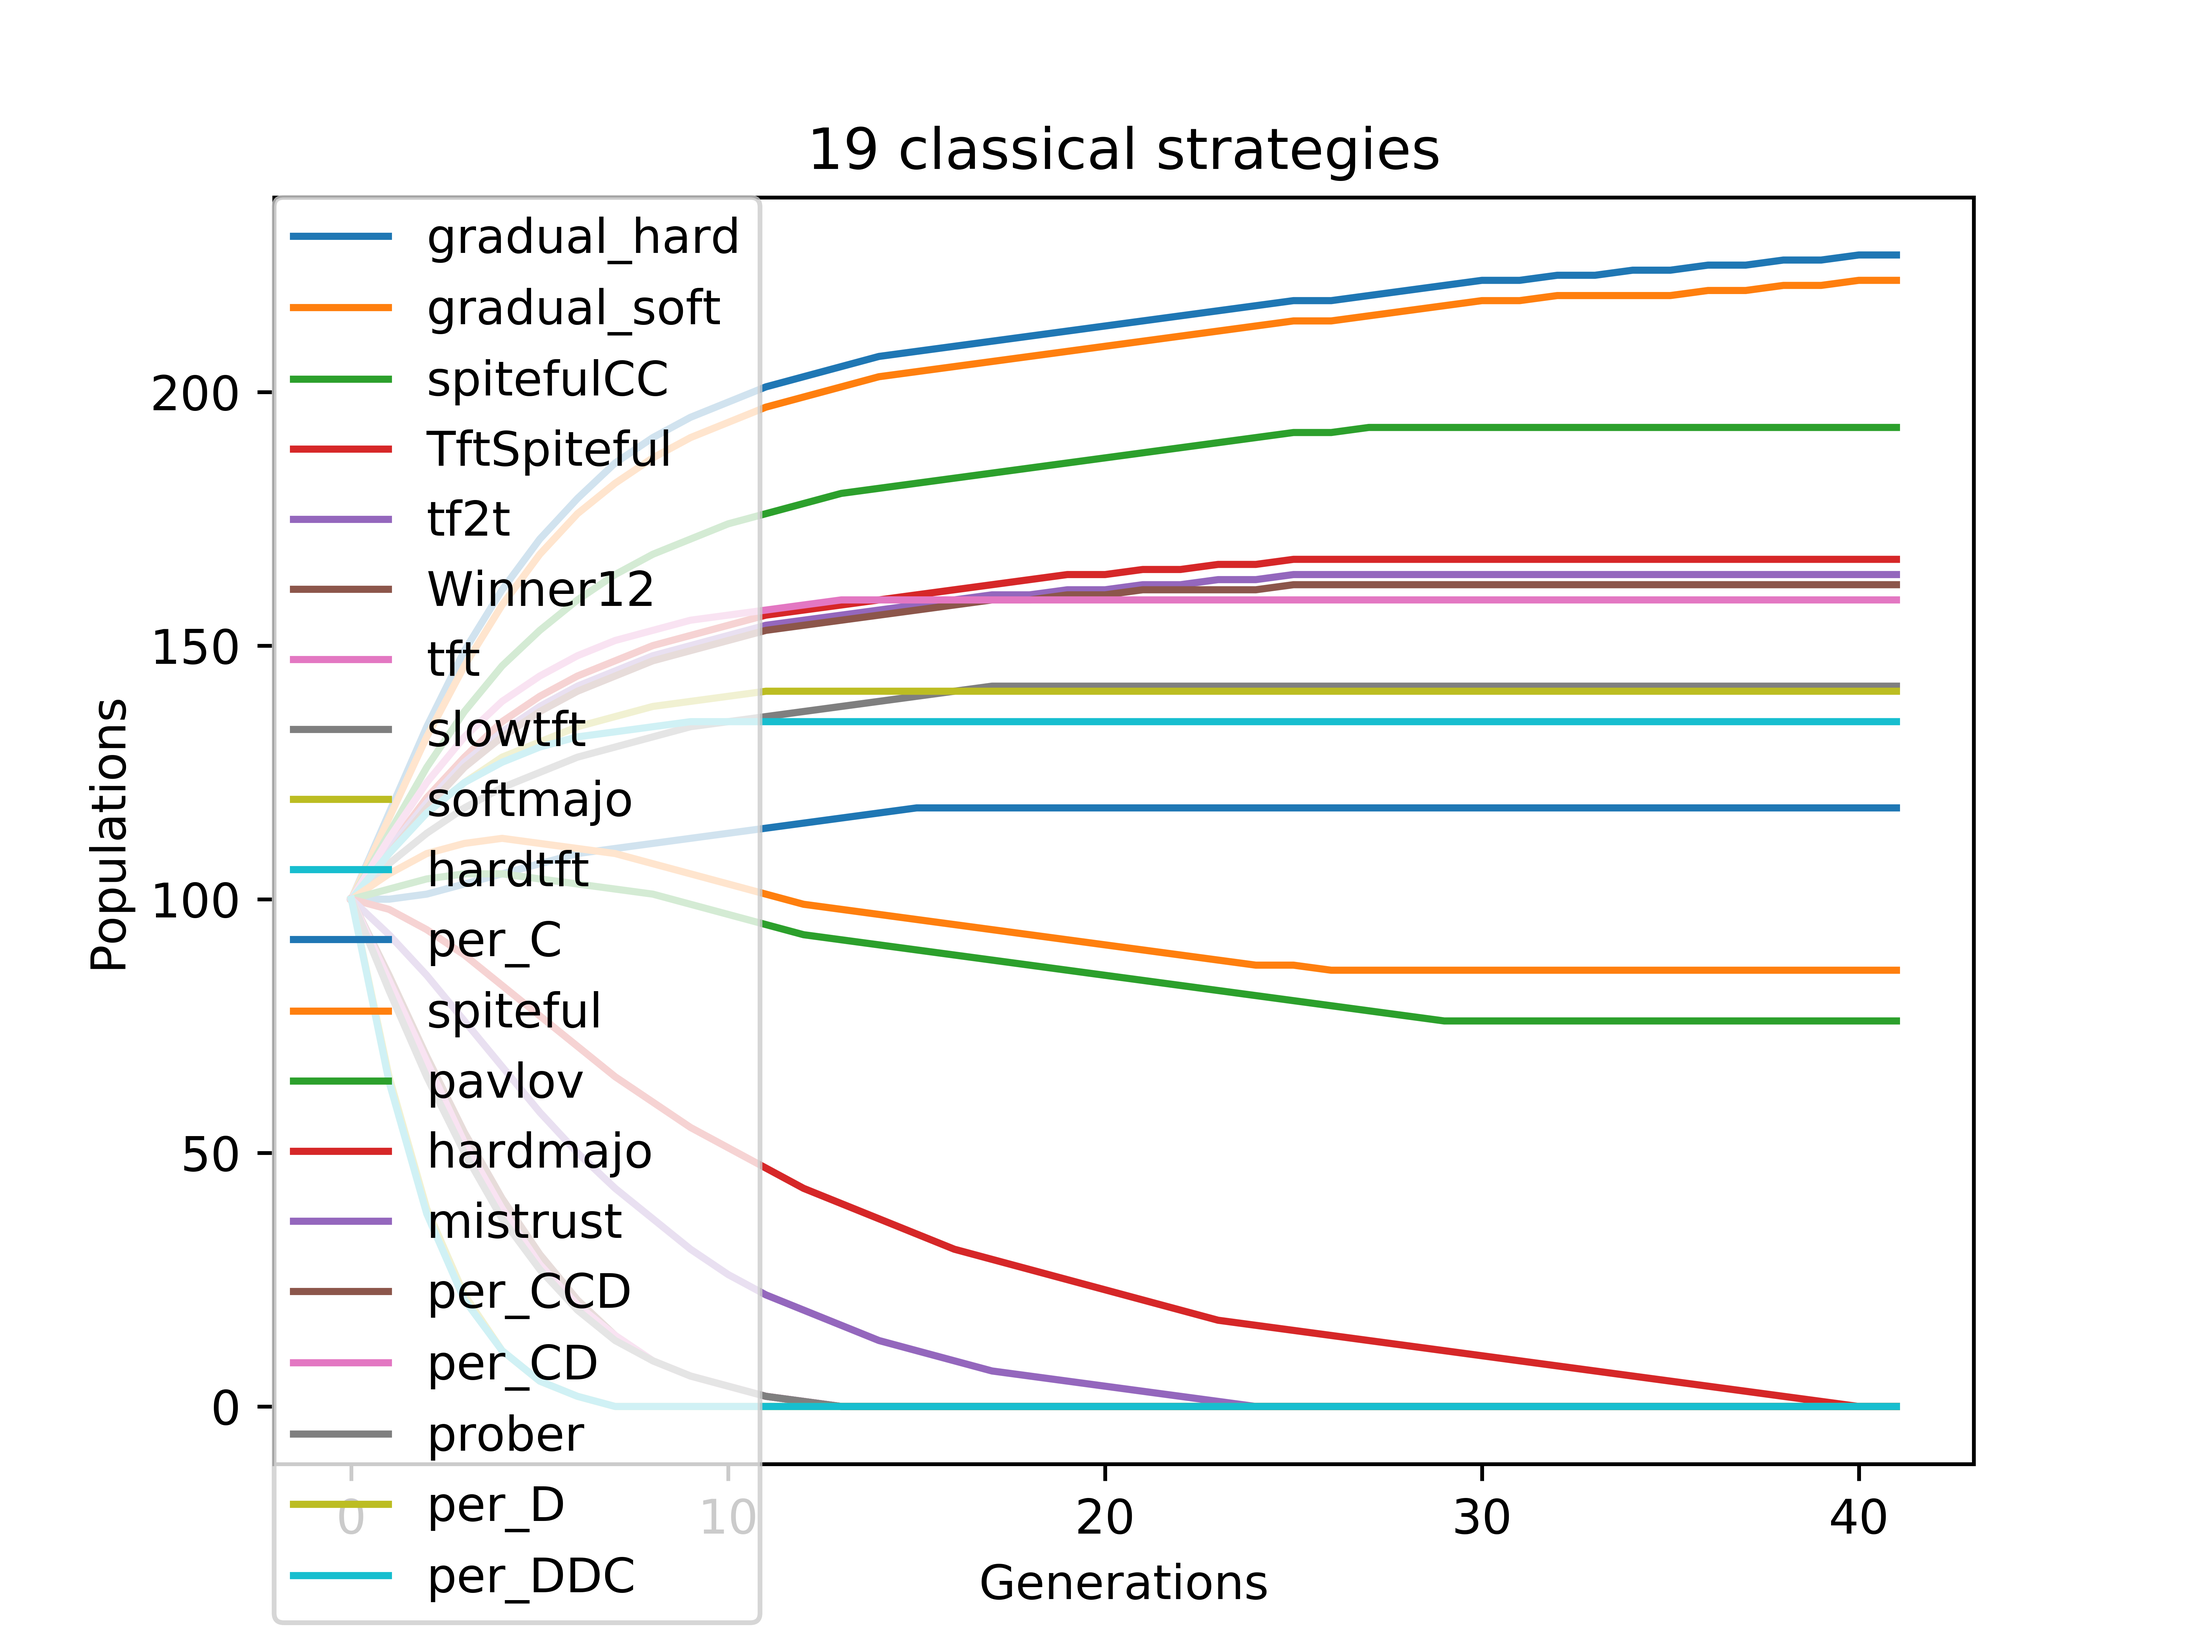
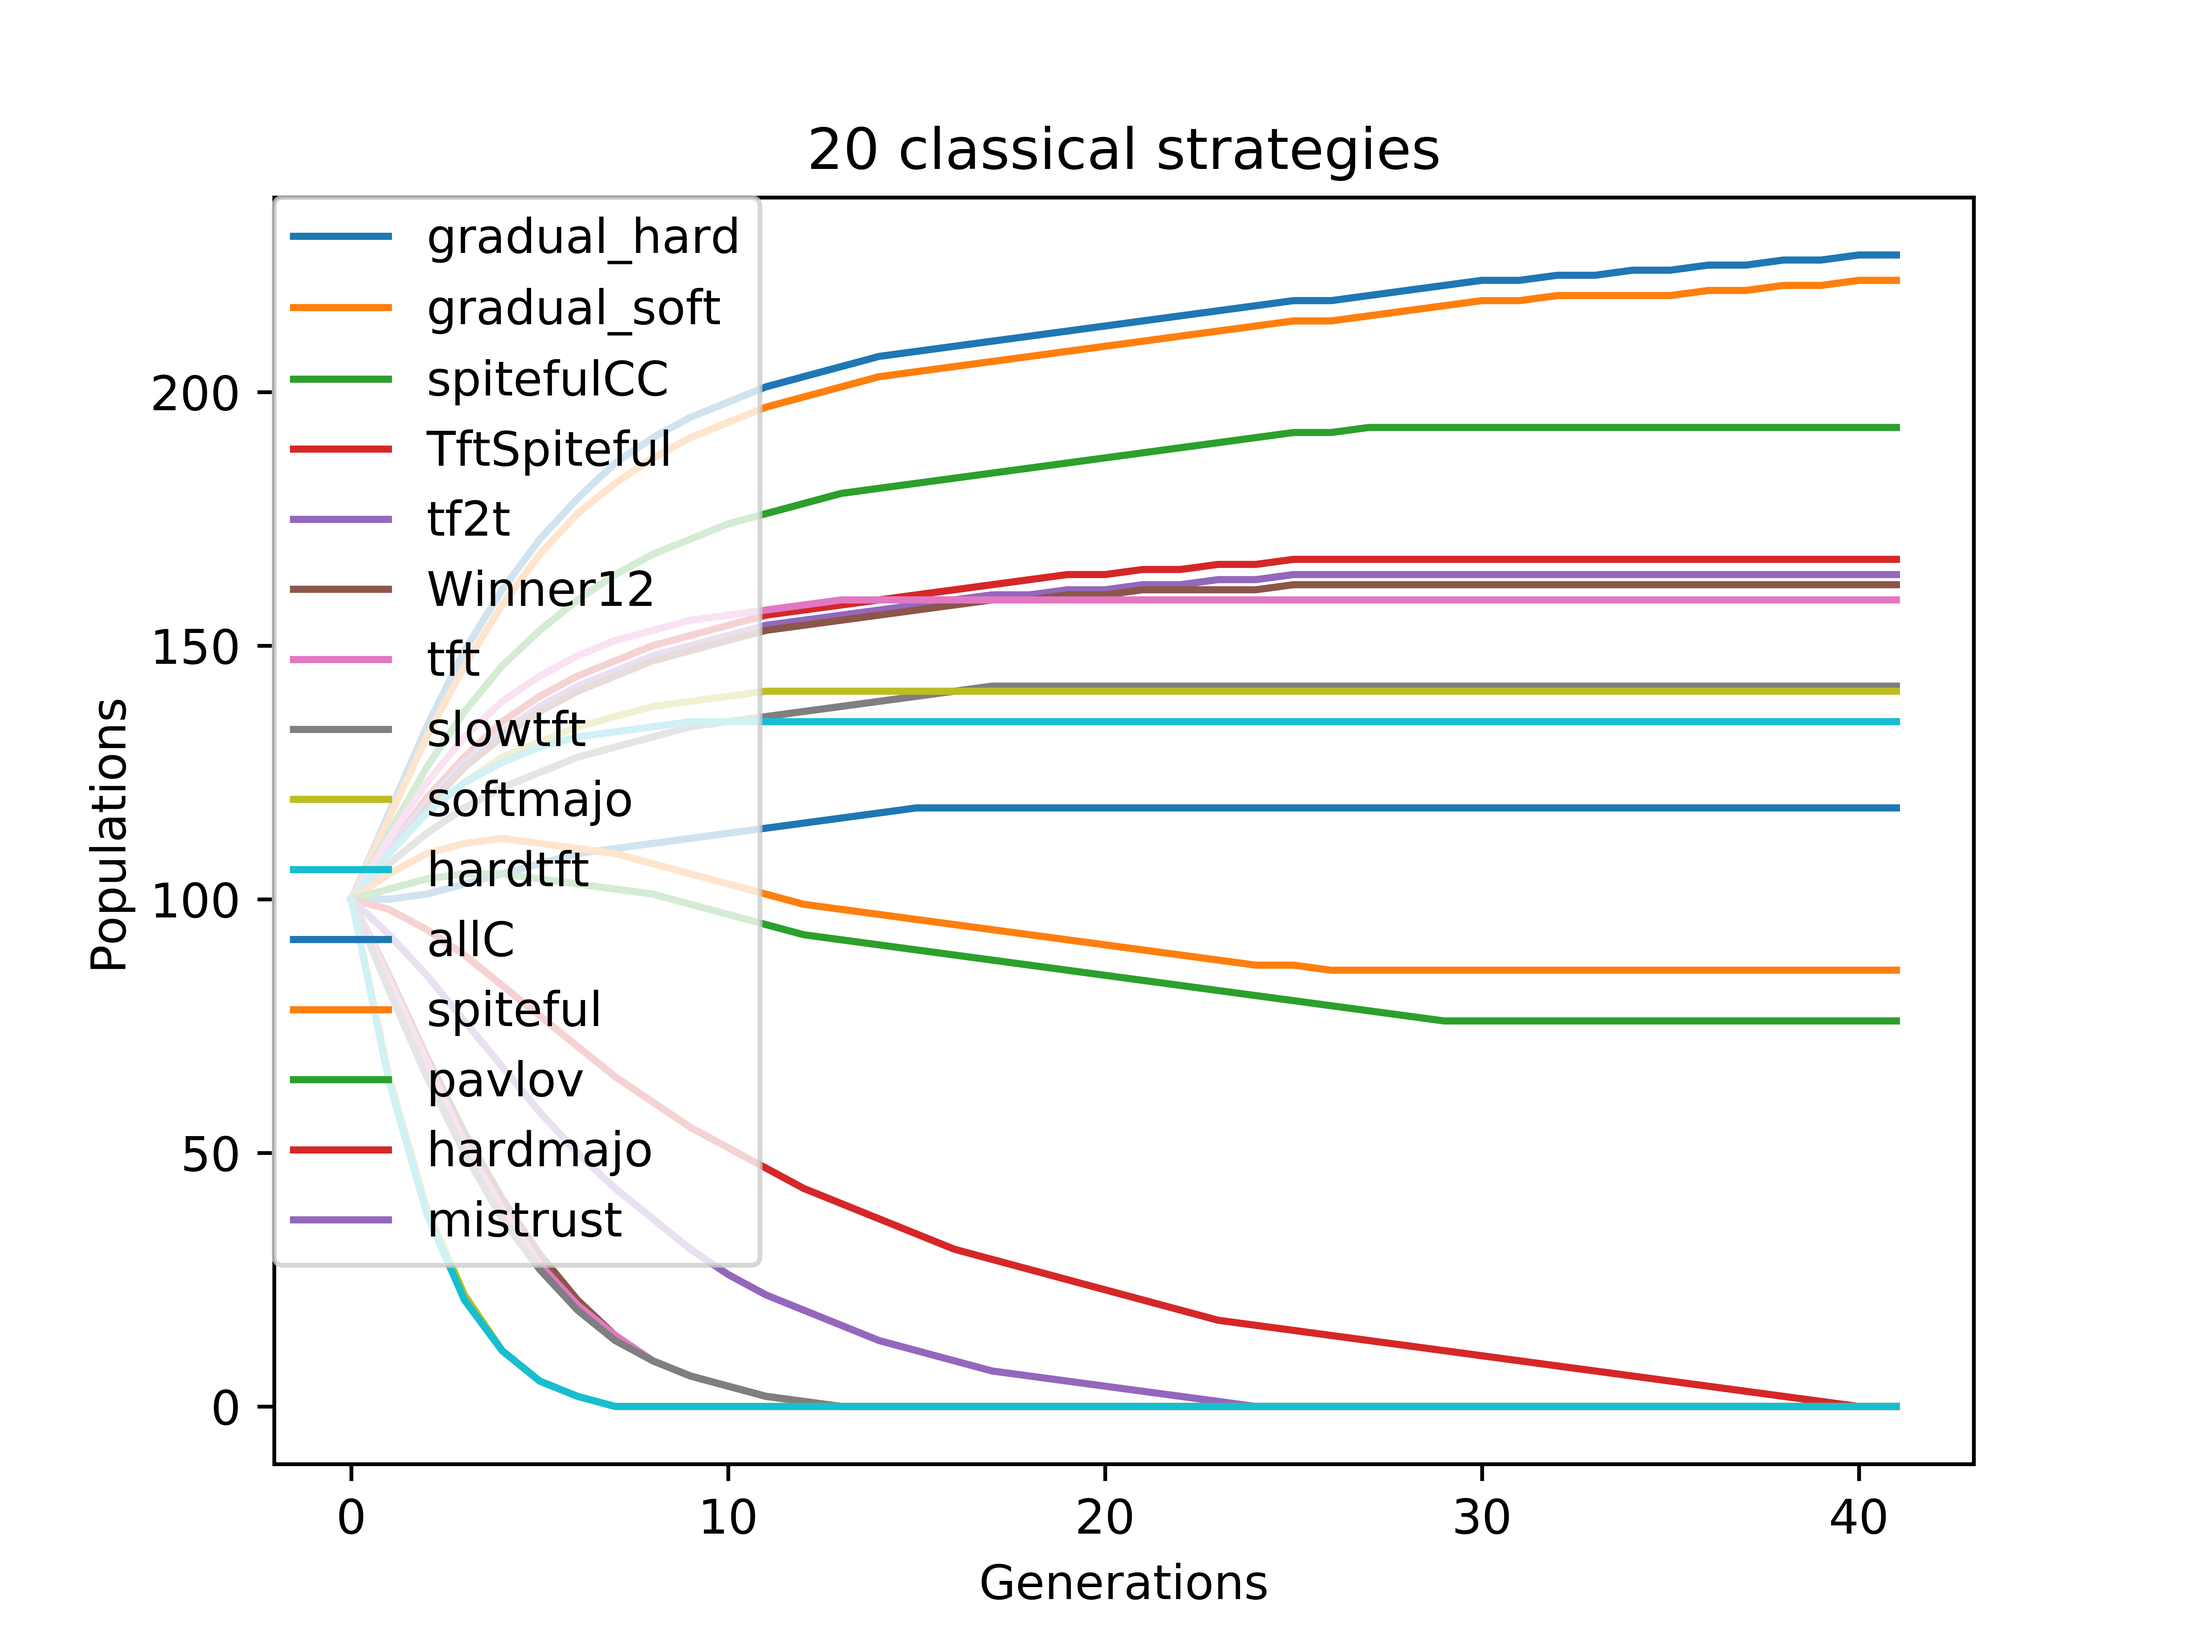
add mem11Cooperation

diff --git a/Gallery/README.md b/Gallery/README.md
@@ -2,8 +2,8 @@
 |:-:|:-:|
 | ![alt text](plot_Classicals.png) | ![alt text](plot_NastyWins.png) |
 | ![alt text](plot_AllStayStable.png) | |
-| ![alt text](plot_Mem11.png) published in [EP 1998: Evolutionary Programming VII pp 33-41](https://link.springer.com/chapter/10.1007%2FBFb0040757) | ![alt text](plot_Mem11WithGradual.png) published in [EP 1998: Evolutionary Programming VII pp 33-41](https://link.springer.com/chapter/10.1007%2FBFb0040757)|
-| ![alt text](plot_Mem11WithClassicals.png) | |
+| ![alt text](plot_Mem11.png) published in [EP 1998: Evolutionary Programming VII pp 33-41](https://link.springer.com/chapter/10.1007%2FBFb0040757) | ![alt text](plot_Mem11Cooperation.png) |
+| ![alt text](plot_Mem11WithGradual.png) published in [EP 1998: Evolutionary Programming VII pp 33-41](https://link.springer.com/chapter/10.1007%2FBFb0040757)| ![alt text](plot_Mem11WithClassicals.png) |
 | ![alt text](plot_Mem12.png) | ![alt text](plot_Mem11With10BestMem12.png) |
 | ![alt text](plot_InvasionBefore.png) | ![alt text](plot_InvasionAfter.png) |
 | ![alt text](plot_ComplexSystem1.png) published in [AE 1999: Artificial Evolution pp 177-190](https://link.springer.com/chapter/10.1007%2F10721187_13) | ![alt text](plot_ComplexSystem2.png) published in [AE 1999: Artificial Evolution pp 177-190](https://link.springer.com/chapter/10.1007%2F10721187_13)  |
